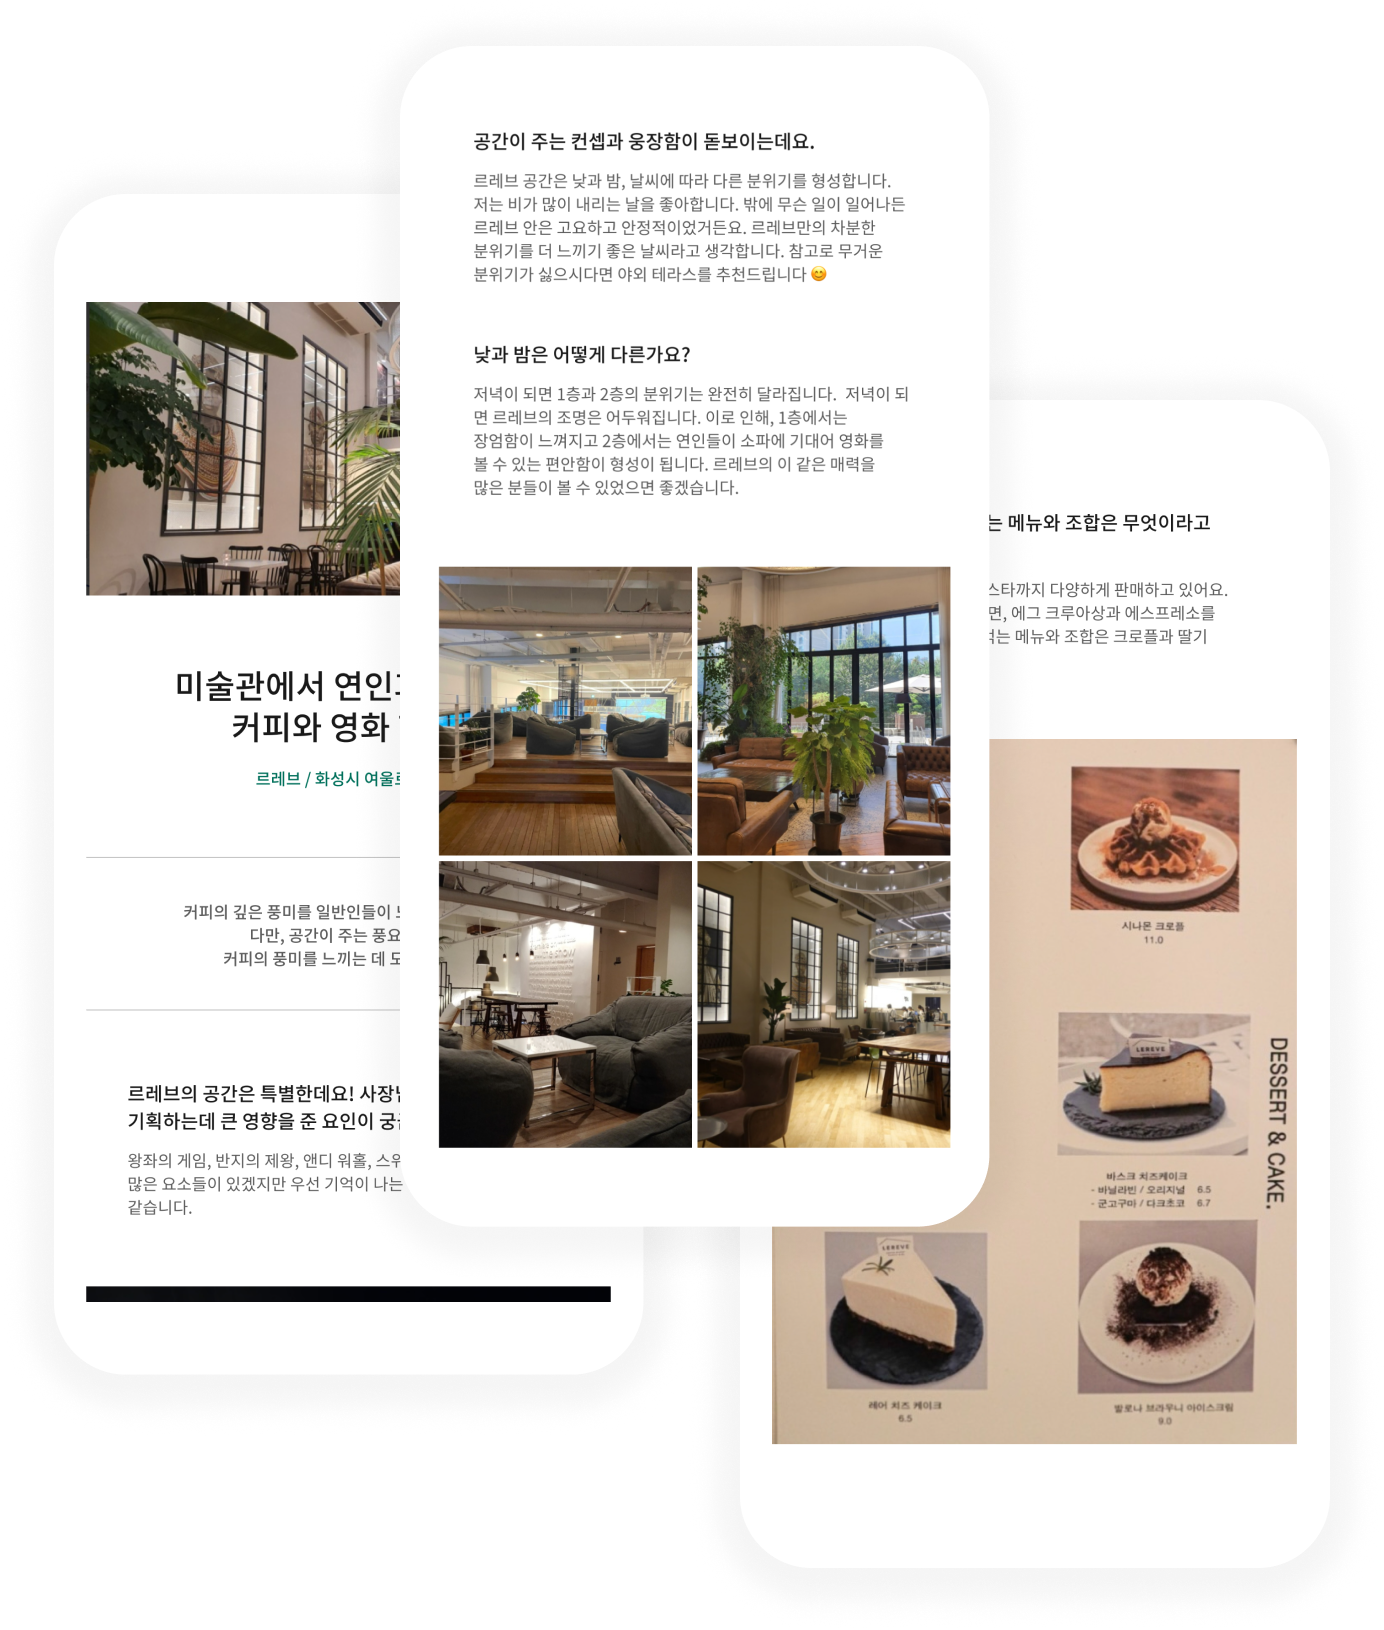
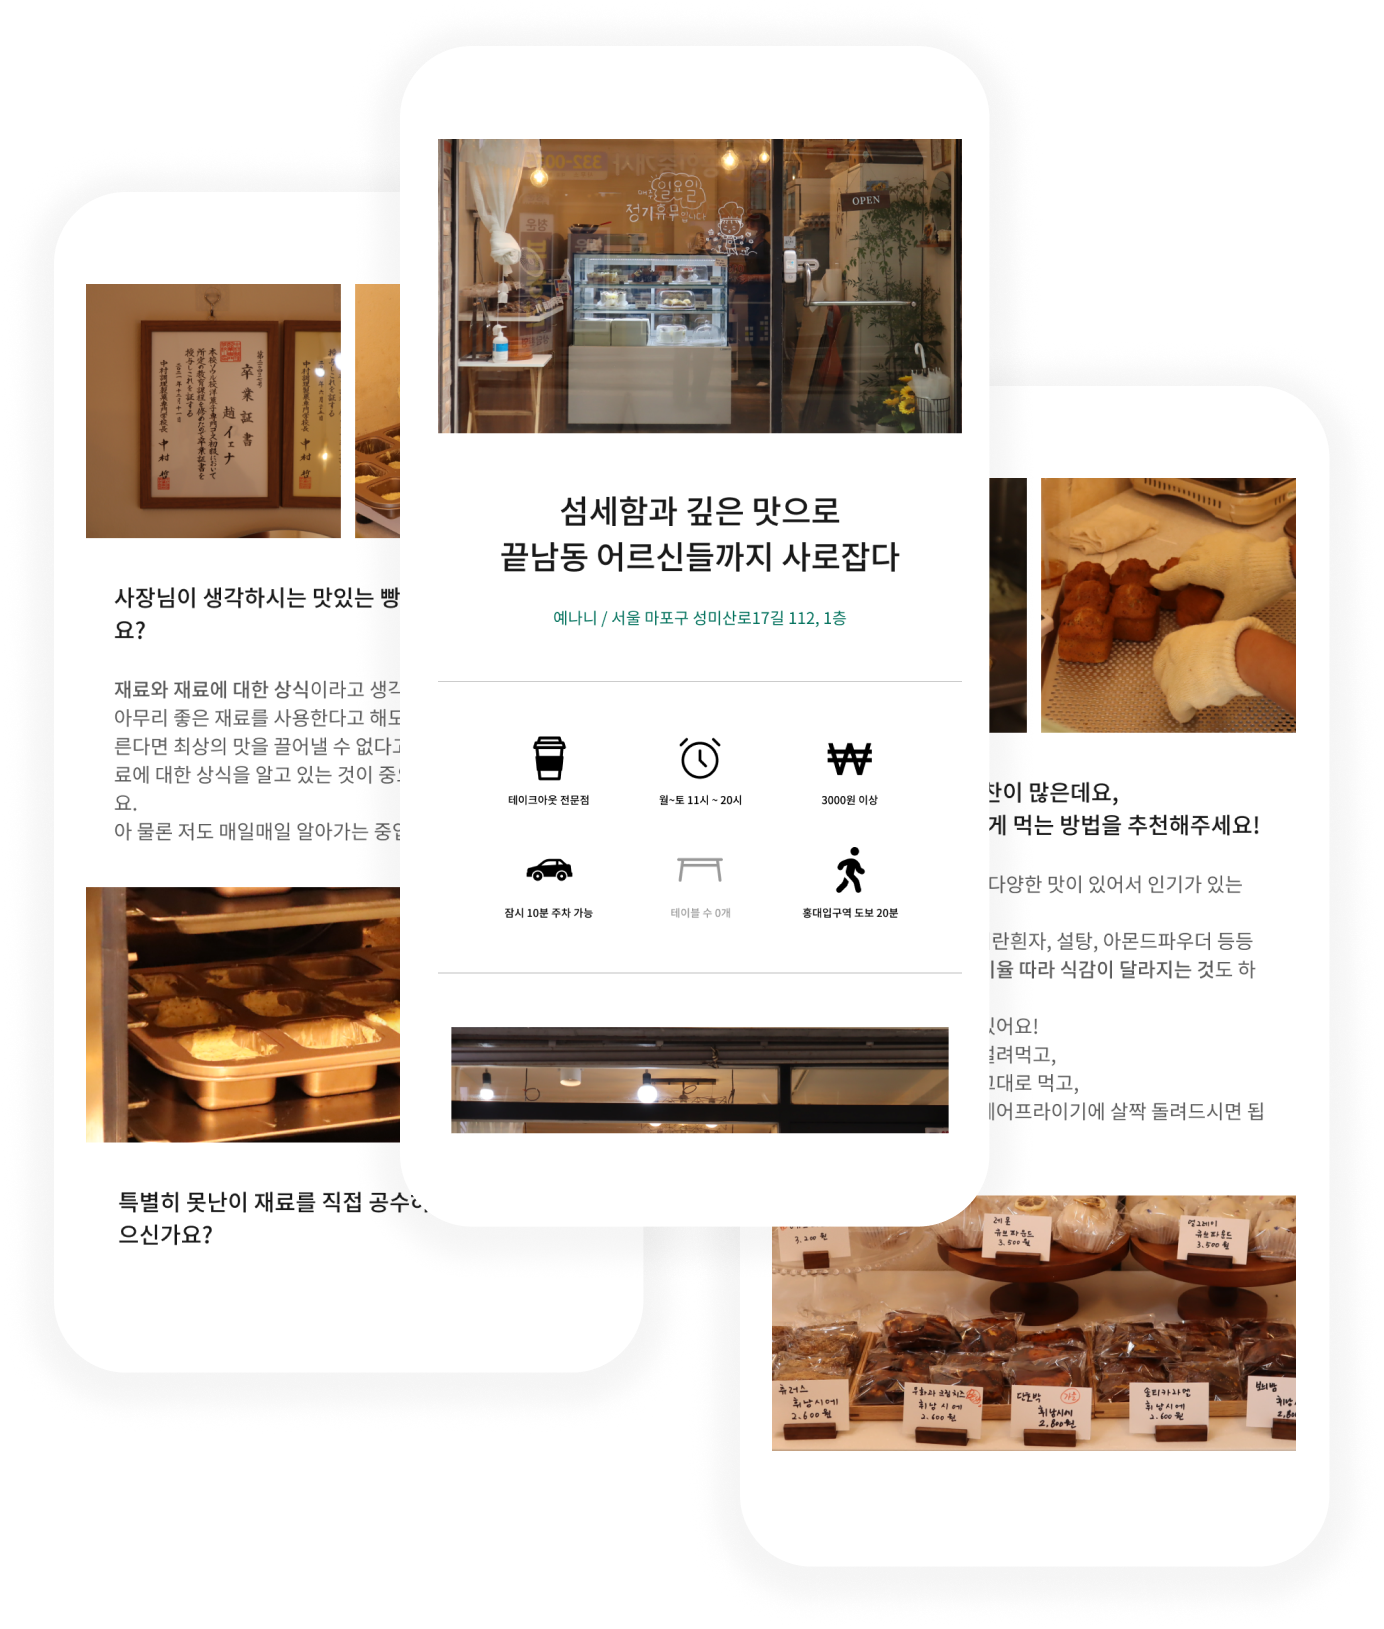
modified: yenani

diff --git a/src/components/pages/magazines/yenani.jsx b/src/components/pages/magazines/yenani.jsx
@@ -26,15 +26,15 @@ const Yenani = () => {
             <img src="./assets/magazinePages/yenani/icons/alarm.png" alt="" />
             <div className="iconDesc">월~토 11시 ~ 20시</div>
           </div>
-          <div class="three">
+          <div className="three">
             <img src="./assets/magazinePages/yenani/icons/won.png" alt="" />
             <div className="iconDesc">3000원 이상</div>
           </div>
-          <div class="four">
+          <div className="four">
             <img src="./assets/magazinePages/yenani/icons/car.png" alt="" />
             <div className="iconDesc">잠시 10분 주차 가능</div>
           </div>
-          <div class="five">
+          <div className="five">
             <img src="./assets/magazinePages/yenani/icons/table.png" alt="" />
             <div className="iconDesc iconDescNone">테이블 수 0개</div>
           </div>
